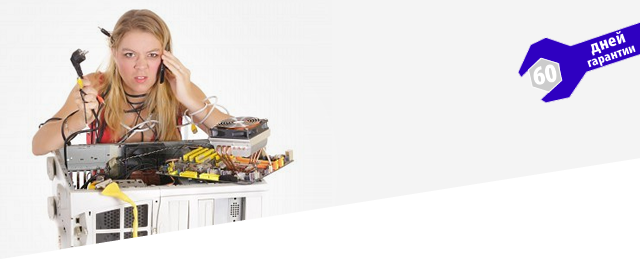
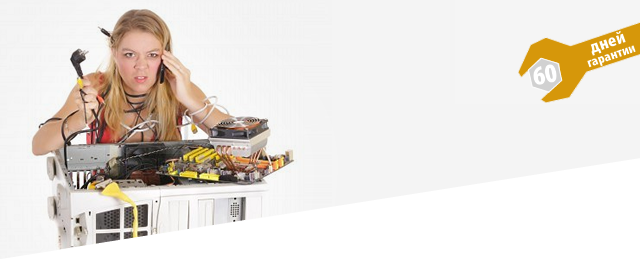
new design

Changed region(s): [[0.8125, 0.0923, 1.0, 0.4]]

diff --git a/AStwoD-Project/AStwoD/Content/css/global.css b/AStwoD-Project/AStwoD/Content/css/global.css
@@ -34,7 +34,7 @@ html, body {
 .action {
     margin-left: 40px;
     margin-right: 40px;
-    background: #2f00c1 url(/Content/img/kaspersky.png) right bottom no-repeat;
+    background: #d6970a url(/Content/img/kaspersky.png) right bottom no-repeat;
     height: 105px;
     font-family: 'Ubuntu', sans-serif;
     font-weight: 500;
@@ -72,7 +72,7 @@ html, body {
 
 h1 {
     margin: 5px 0 0 0;
-    color: #2f00c1;
+    color: #d6970a;
     font-size: 1.6em;
     line-height: 1em;
     font-weight: 500;
@@ -80,7 +80,7 @@ h1 {
 
 h2 {
     margin: 5px 0 0 0;
-    color: #2f00c1;
+    color: #d6970a;
     font-size: 1.4em;
     line-height: 1em;
     font-weight: 500;
@@ -88,7 +88,7 @@ h2 {
 
 h3, .h3 {
     margin: 5px 0 0 0;
-    color: #2f00c1;
+    color: #d6970a;
     font-size: 1.2em;
     line-height: 1em;
     font-weight: 500;
@@ -241,7 +241,7 @@ span.nobr {
     margin: 0 0 0 40px;
     position: relative;
     top: -41px;
-    background: #2f00c1 url(/Content/img/headerMenuBorderRight.png) right no-repeat;
+    background: #d6970a url(/Content/img/headerMenuBorderRight.png) right no-repeat;
     padding: 0 10px 0 10px;
 }
 
@@ -448,7 +448,7 @@ span.nobr {
     font-weight: 500;
     line-height: 1em;
     text-align: right;
-    color: #2f00c1;
+    color: #d6970a;
     float: left
 }
 
@@ -481,7 +481,7 @@ span.nobr {
 #container .contentRightSidebar .contentRightSidebarMainService .contentRightSidebarMainServiceTitle {
     text-align: center;
     font-weight: 500;
-    color: #2f00c1;
+    color: #d6970a;
     font-size: 1.2em;
 }
 
@@ -589,7 +589,7 @@ span.nobr {
 }
 
 #container .contentRightSidebar .contentRightSidebarText .contentRightSidebarTable td {
-    color: #2f00c1;
+    color: #d6970a;
     font-weight: 700;
     padding: 8px 20px 0 20px;
     text-align: right;
@@ -706,7 +706,7 @@ span.nobr {
 
 #container .contentRightSidebar .contentRightSidebarText .contentRightSidebarTabsSub a.active {
     color: #FFF;
-    background: #2f00c1
+    background: #d6970a
 }
 
 #container .contentRightSidebar .contentRightSidebarText .contentRightSidebarTabsSub a.active:hover {
@@ -767,12 +767,12 @@ span.nobr {
     padding: 2px 5px;
     margin: 0 0 0 2px;
     background: #EBEBEB;
-    color: #2f00c1
+    color: #d6970a
 }
 
 #container .contentRightSidebar .contentRightSidebarText .pagination a.active {
     color: #FFFFFF;
-    background: #2f00c1
+    background: #d6970a
 }
 
 #container .contentRightSidebar .contentRightSidebarText table.contacts {
@@ -854,7 +854,7 @@ span.nobr {
 }
 
 #container .contentRightSidebarTabbedPrice .city span {
-    background: #2f00c1;
+    background: #d6970a;
     padding: 5px 10px;
     color: #ffffff;
     margin-right: 1px;
@@ -912,7 +912,7 @@ span.nobr {
 
 #container .contentLeftSidebar .contentLeftSidebarKeyServices {
     width: 206px;
-    background: #2f00c1;
+    background: #d6970a;
 }
 
 #container .contentLeftSidebar .contentLeftSidebarKeyServices .contentLeftSidebarKeyServicesItems div {
@@ -927,7 +927,7 @@ span.nobr {
     border-bottom: none;
     display: block;
     padding: 4px 10px 4px 10px;
-    background: #2f00c1;
+    background: #d6970a;
 }
 
 #container .contentLeftSidebar .contentLeftSidebarKeyServices .contentLeftSidebarKeyServicesItems div a:hover, #container .contentLeftSidebar .contentLeftSidebarKeyServices .contentLeftSidebarKeyServicesItems div a.active {
@@ -1034,7 +1034,7 @@ span.nobr {
 }
 
 #container .footer .footerPress .footerPressEvents .footerPressEventText a:hover {
-    color: #2f00c1;
+    color: #d6970a;
     text-decoration: underline;
     border-bottom: none;
 }
@@ -1061,7 +1061,7 @@ span.nobr {
 }
 
 #container .footer .footerLinksBlock {
-    background: #2f00c1;
+    background: #d6970a;
     padding: 20px 40px;
 }
 
@@ -1124,7 +1124,7 @@ span.nobr {
 }
 
 #container .footer .footerCopyright a {
-    color: #2f00c1;
+    color: #d6970a;
     border-bottom: none;
     text-decoration: none;
 }
